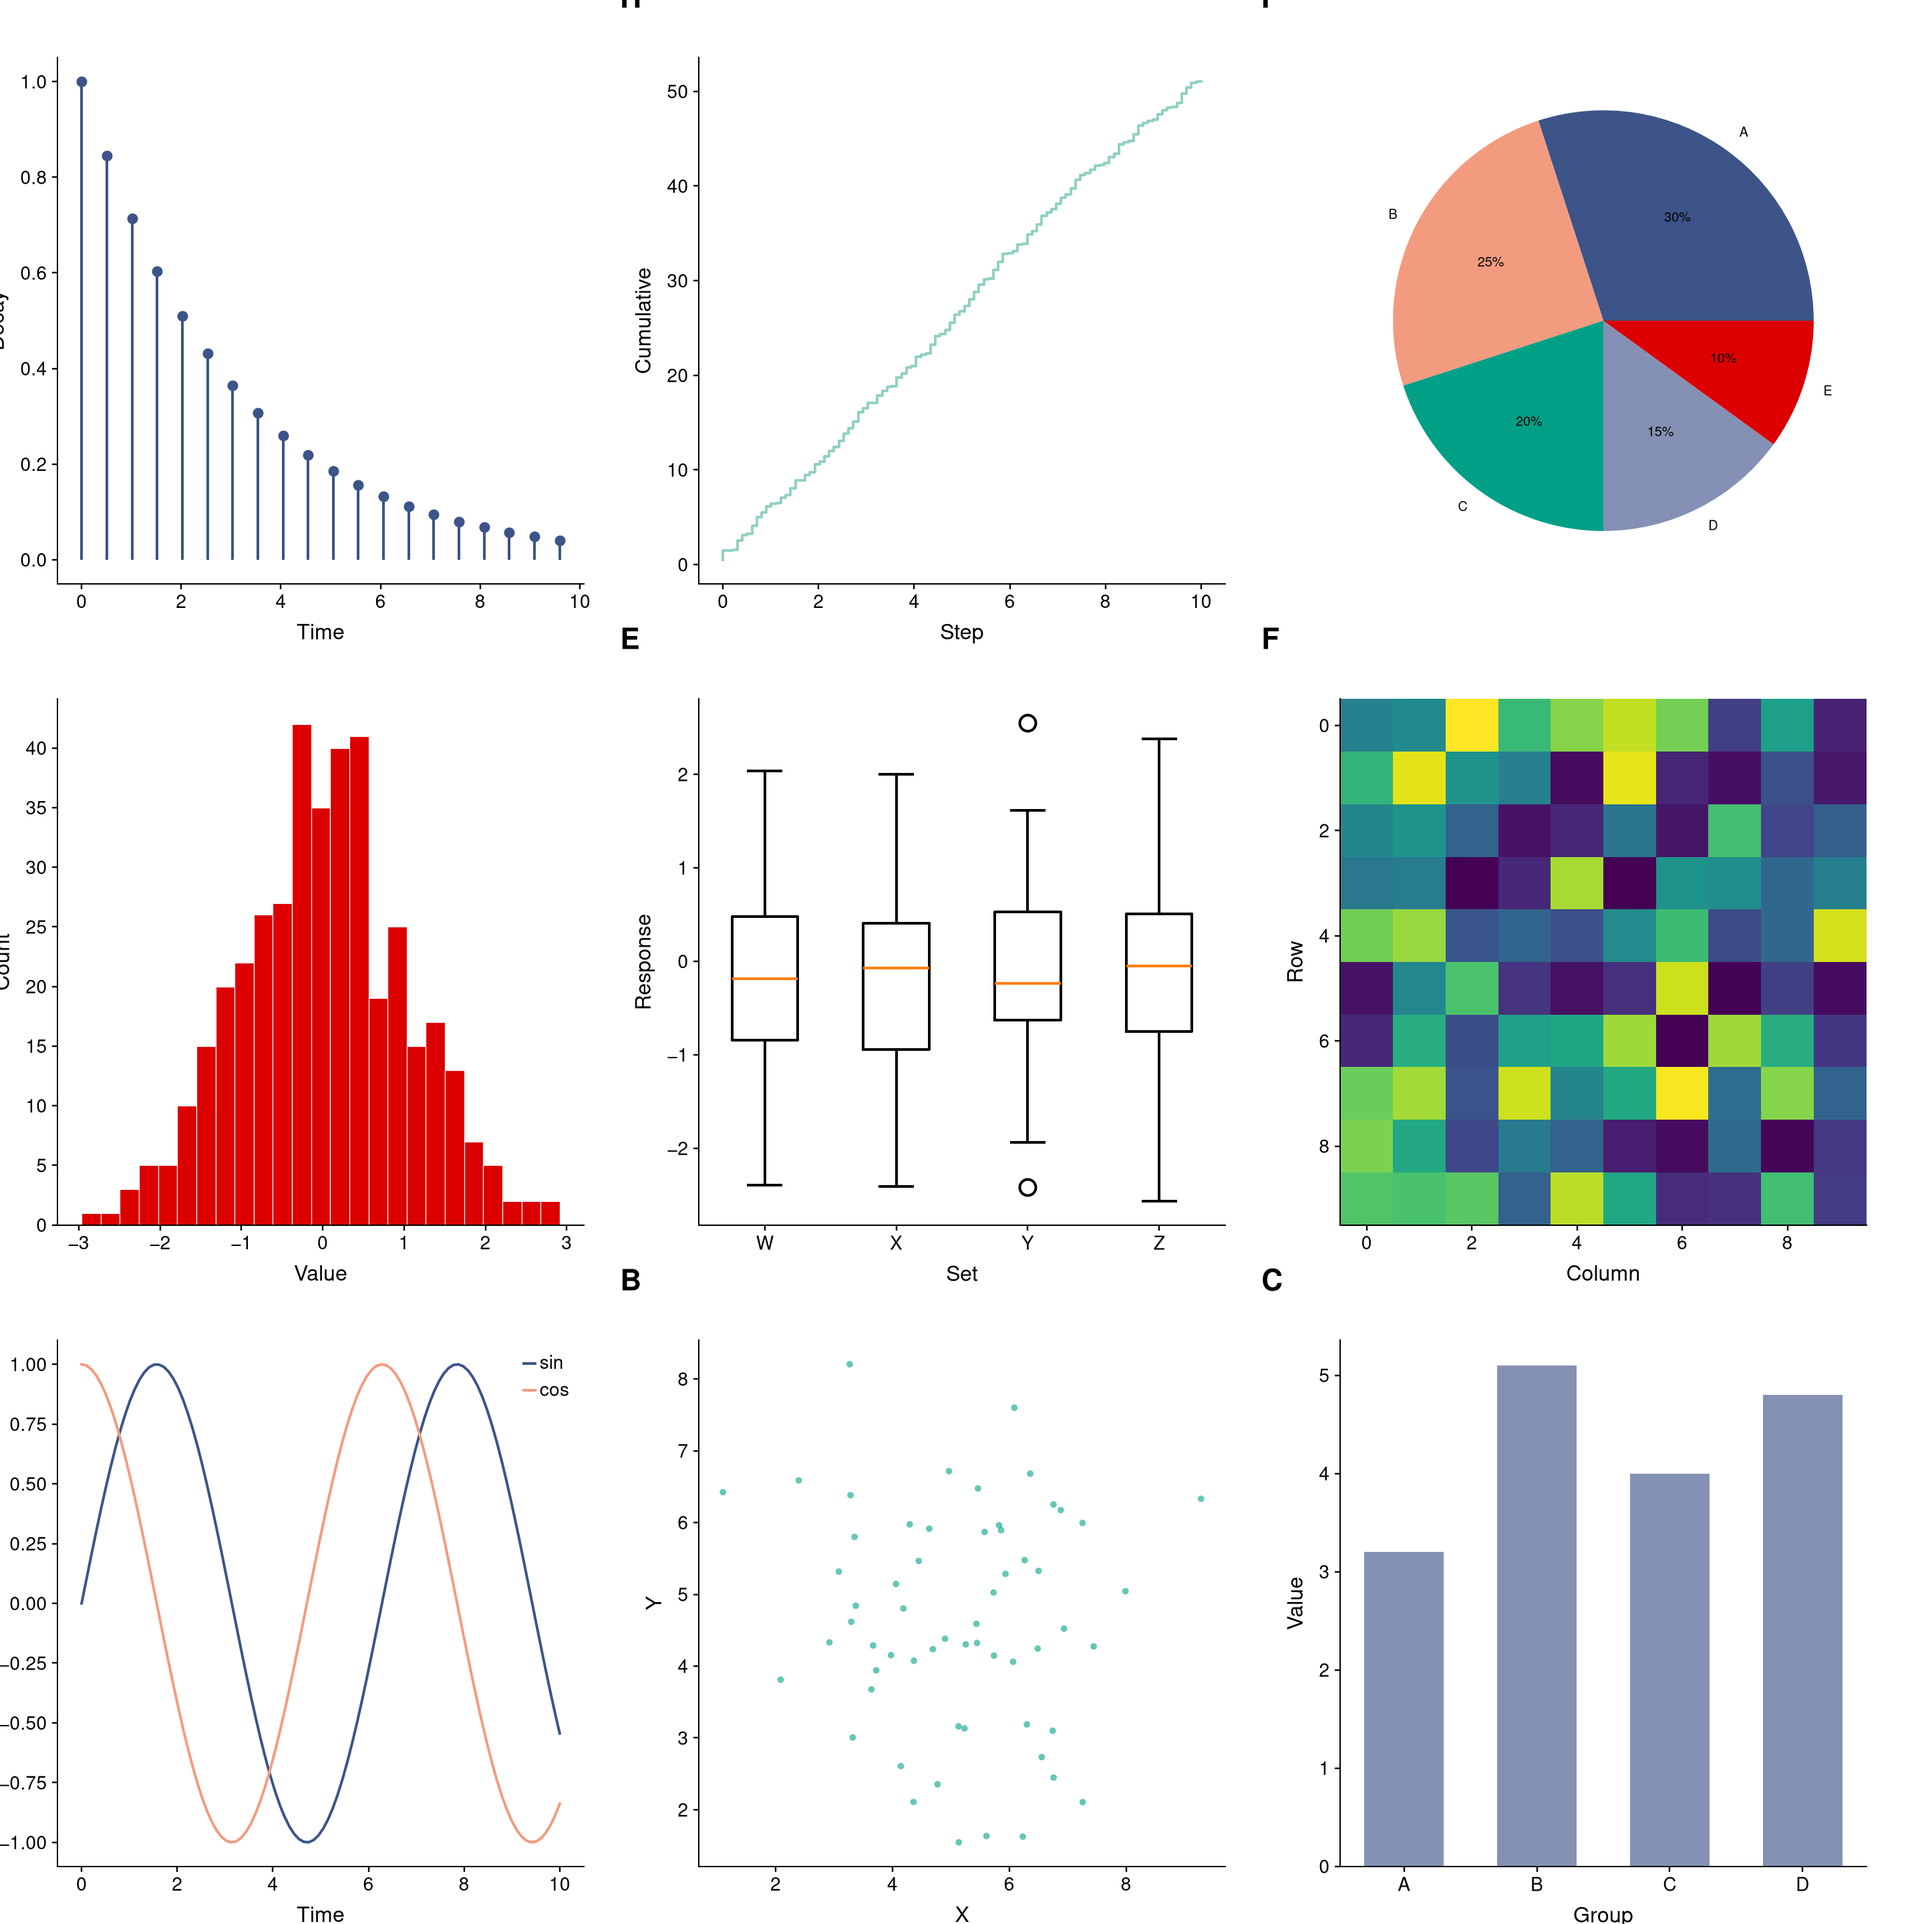
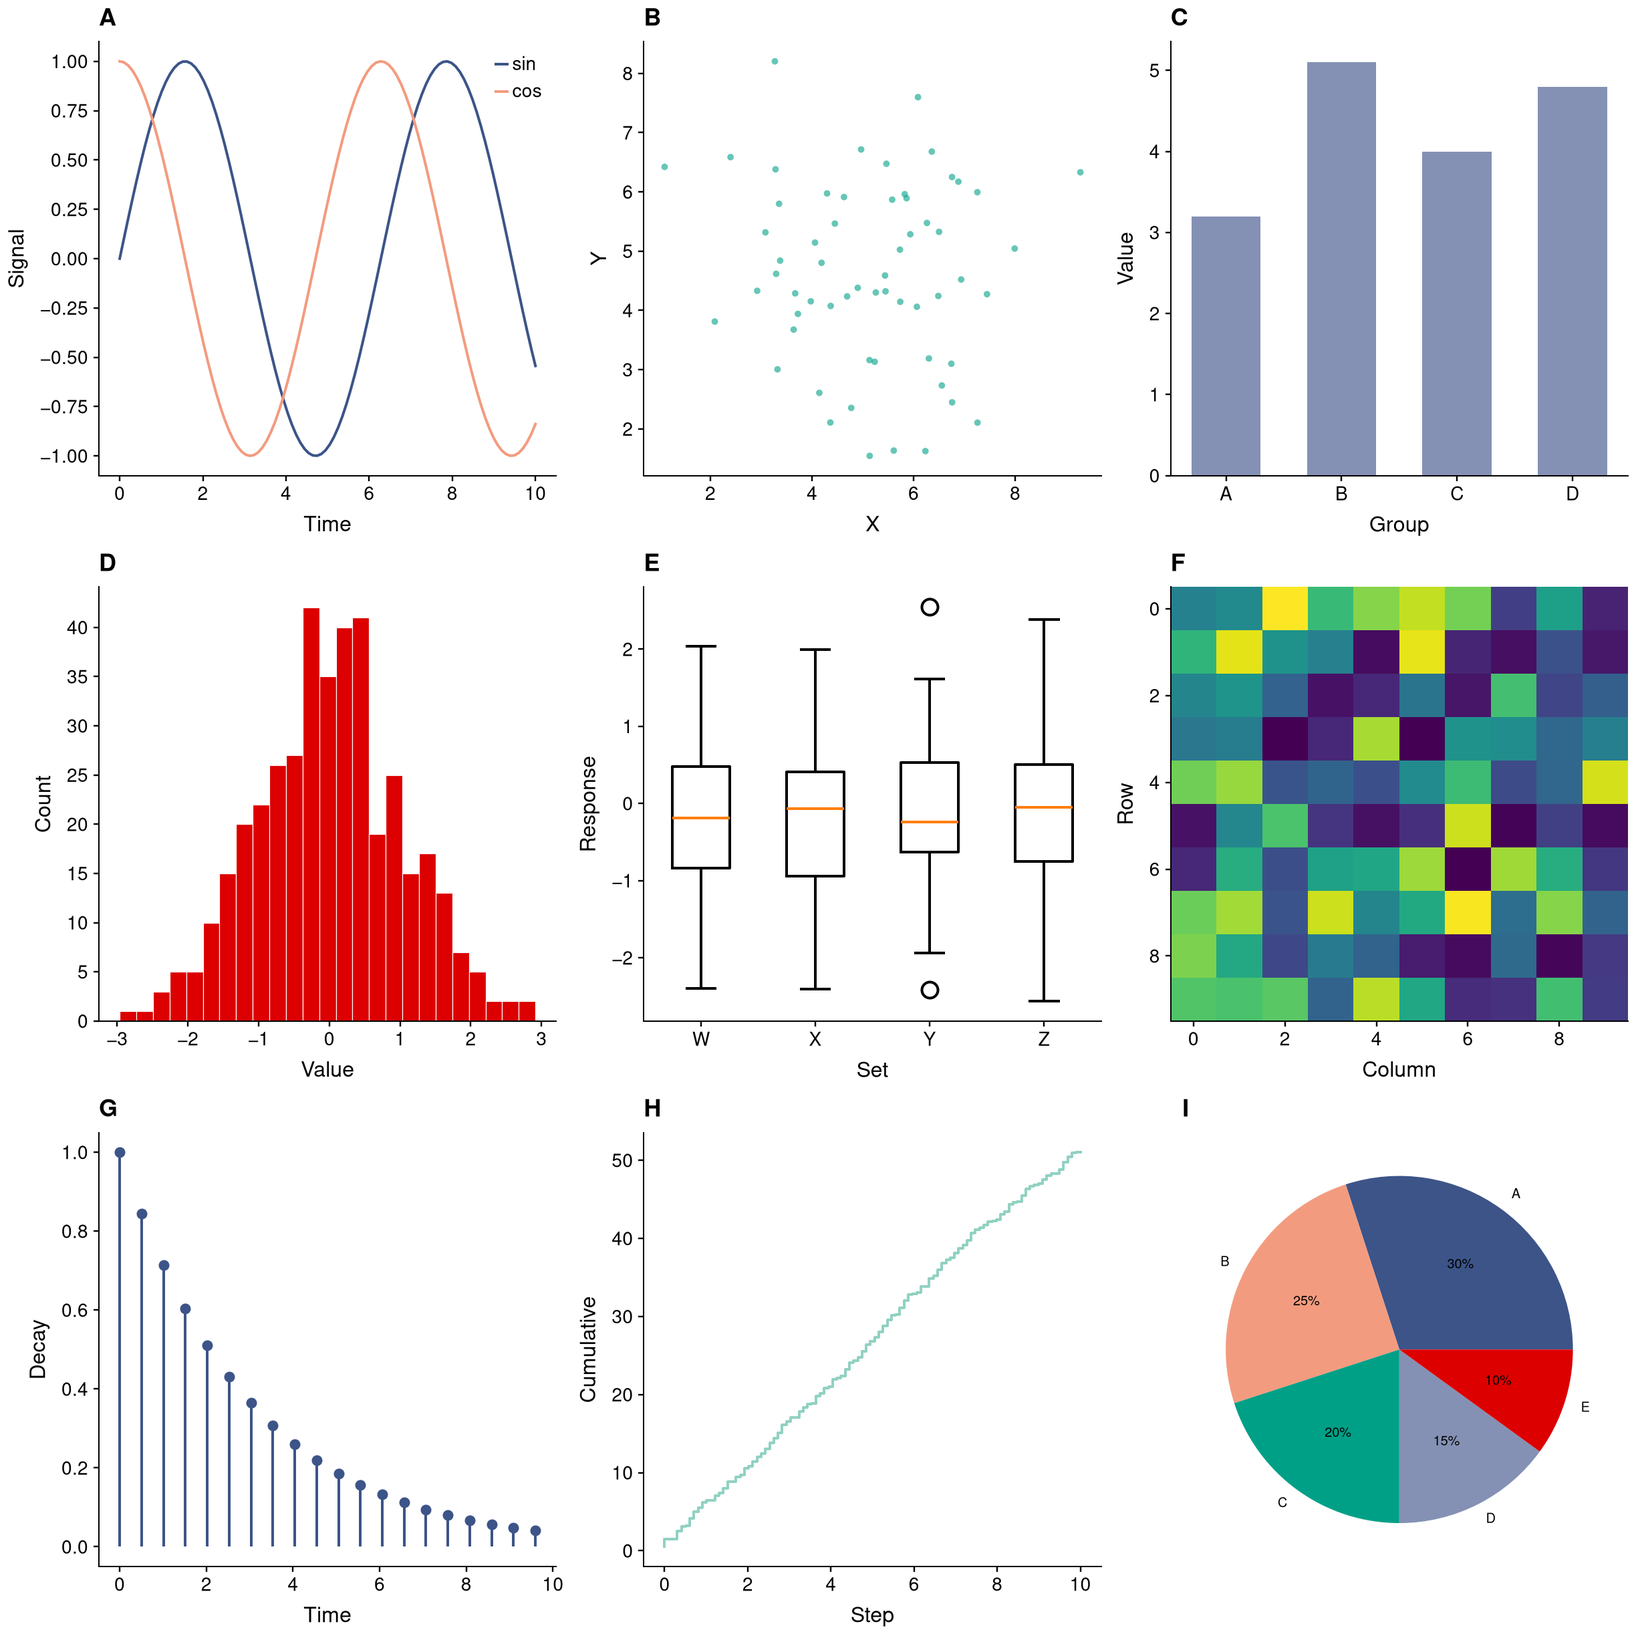
Fix layout engine: convert composition tree to subplot_mosaic with constrained_layout to prevent clipping and text overlaps

diff --git a/src/figpatch/_compose.py b/src/figpatch/_compose.py
@@ -2,6 +2,7 @@
 
 from __future__ import annotations
 
+import math
 from typing import TYPE_CHECKING, Union
 
 import matplotlib.pyplot as plt
@@ -13,6 +14,80 @@ if TYPE_CHECKING:
     from collections.abc import Callable
 
 _PanelLike = Union["Panel", "Compose"]
+
+
+def _repeat_cols(matrix: list[list[str]], factor: int) -> list[list[str]]:
+    """Repeat each column in a 2D matrix by factor."""
+    new_m = []
+    for row in matrix:
+        new_row = []
+        for cell in row:
+            new_row.extend([cell] * factor)
+        new_m.append(new_row)
+    return new_m
+
+
+def _repeat_rows(matrix: list[list[str]], factor: int) -> list[list[str]]:
+    """Repeat each row in a 2D matrix by factor."""
+    new_m = []
+    for row in matrix:
+        for _ in range(factor):
+            new_m.append(list(row))
+    return new_m
+
+
+def tree_to_mosaic(
+    node: _PanelLike,
+) -> tuple[list[list[str]], list[object], list[str]]:
+    """Convert a composition tree into a 2D mosaic grid matrix.
+
+    Returns ``(mosaic_matrix, ordered_panels, ordered_keys)`` where
+    row 0 is the top row and row N-1 is the bottom row.
+    """
+
+    from figpatch._panel import Panel
+
+    if isinstance(node, Panel) or getattr(node, "right", None) is None:
+        leaf = node.left if isinstance(node, Compose) else node
+        key = f"p_{id(leaf)}"
+        return [[key]], [leaf], [key]
+
+    children = node._collect_children()
+    sub_mats: list[list[list[str]]] = []
+    panels_list: list[object] = []
+    keys_list: list[str] = []
+
+    for child in children:
+        mat, p_list, k_list = tree_to_mosaic(child)
+        sub_mats.append(mat)
+        panels_list.extend(p_list)
+        keys_list.extend(k_list)
+
+    if node.direction == "h":
+        row_counts = [len(m) for m in sub_mats]
+        target_rows = row_counts[0]
+        for rc in row_counts[1:]:
+            target_rows = math.lcm(target_rows, rc)
+
+        expanded = [_repeat_rows(m, target_rows // len(m)) for m in sub_mats]
+        result: list[list[str]] = []
+        for r in range(target_rows):
+            row: list[str] = []
+            for m in expanded:
+                row.extend(m[r])
+            result.append(row)
+        return result, panels_list, keys_list
+    else:  # "v"
+        col_counts = [len(m[0]) for m in sub_mats]
+        target_cols = col_counts[0]
+        for cc in col_counts[1:]:
+            target_cols = math.lcm(target_cols, cc)
+
+        expanded = [_repeat_cols(m, target_cols // len(m[0])) for m in sub_mats]
+        result = []
+        for m in expanded:
+            result.extend(m)
+        return result, panels_list, keys_list
 
 
 class Compose:
@@ -43,32 +118,35 @@ class Compose:
         self,
         figsize: tuple[float, float] | None = None,
         labels: bool | str = True,
-        gap: float = 0.04,
+        gap: float | None = None,
     ) -> Figure:
         """Render the composition tree to a Matplotlib Figure.
+
+        Uses Matplotlib's native ``layout="constrained"`` to dynamically
+        prevent overlaps and ensure all labels, titles, and ticks fit.
 
         Parameters
         ----------
         figsize
             Figure size in inches. Auto-calculated when ``None``.
         labels
-            ``True`` for A, B, C... labels; a string for prefixed labels
-            (e.g. ``"S"`` produces S1, S2, ...).  ``False`` disables.
+            ``True`` for bold A, B, C... labels at top-left; a string for
+            prefixed labels (e.g. ``"S"`` produces S1, S2, ...); or ``False``.
         gap
-            Spacing between panels in figure-relative units (0–1).
+            Deprecated parameter retained for backwards compatibility.
         """
 
-        panels_areas = self._flatten(0.0, 0.0, 1.0, 1.0)
+        mosaic, panels, keys = tree_to_mosaic(self)
 
         if figsize is None:
-            figsize = estimate_figsize(panels_areas)
+            figsize = estimate_figsize(mosaic)
 
-        fig = plt.figure(figsize=figsize)
+        fig, axd = plt.subplot_mosaic(mosaic, figsize=figsize, layout="constrained")
 
         axes = []
-        for panel, (x, y, w, h) in panels_areas:
-            ax = fig.add_axes([x + gap / 2, y + gap / 2, w - gap, h - gap])
-            panel(ax)
+        for panel_obj, key in zip(panels, keys, strict=True):
+            ax = axd[key]
+            panel_obj(ax)  # type: ignore[operator]
             axes.append(ax)
 
         add_labels(axes, labels)
@@ -103,7 +181,7 @@ class Compose:
         w: float,
         h: float,
     ) -> list[tuple[object, tuple[float, float, float, float]]]:
-        """Recursively assign rectangular areas to every leaf panel."""
+        """Recursively assign rectangular areas to every leaf panel (document order)."""
 
         if self.right is None:
             return [(self.left, (x, y, w, h))]
@@ -144,7 +222,7 @@ def compose(
     direction: str = "h",
     figsize: tuple[float, float] | None = None,
     labels: bool | str = True,
-    gap: float = 0.04,
+    gap: float | None = None,
 ) -> Figure:
     """Compose existing Matplotlib figures or axes into a single figure.
 
@@ -159,7 +237,7 @@ def compose(
     labels
         ``True`` for A, B, C... labels; a string prefix; or ``False``.
     gap
-        Spacing between panels in figure-relative units.
+        Deprecated parameter retained for backwards compatibility.
 
     Returns
     -------

diff --git a/src/figpatch/_layout.py b/src/figpatch/_layout.py
@@ -3,7 +3,7 @@
 from __future__ import annotations
 
 import string
-from typing import TYPE_CHECKING
+from typing import TYPE_CHECKING, Any
 
 if TYPE_CHECKING:
     from collections.abc import Sequence
@@ -11,21 +11,31 @@ if TYPE_CHECKING:
 
 
 def estimate_figsize(
-    panels_areas: list[tuple[object, tuple[float, float, float, float]]],
+    layout_spec: Any,
     panel_w: float = 4.0,
     panel_h: float = 3.0,
 ) -> tuple[float, float]:
-    """Estimate figure size (inches) from a flattened list of (panel, area) pairs."""
+    """Estimate figure size (inches) from a mosaic matrix or panel areas."""
 
-    x_starts = sorted({round(area[0], 6) for _, area in panels_areas})
-    y_starts = sorted({round(area[1], 6) for _, area in panels_areas})
-    ncols = len(x_starts)
-    nrows = len(y_starts)
-    return (max(ncols * panel_w, 4.0), max(nrows * panel_h, 3.0))
+    # If passed a 2D mosaic matrix (list of lists of strings)
+    if isinstance(layout_spec, list) and layout_spec and isinstance(layout_spec[0], list):
+        nrows = len(layout_spec)
+        max_cols = max(len(set(row)) for row in layout_spec)
+        return (max(max_cols * panel_w, 4.0), max(nrows * panel_h, 3.0))
+
+    # Backwards compatibility: passed a list of (panel, area) tuples
+    if isinstance(layout_spec, list) and layout_spec and isinstance(layout_spec[0], tuple):
+        x_starts = sorted({round(area[0], 6) for _, area in layout_spec})
+        y_starts = sorted({round(area[1], 6) for _, area in layout_spec})
+        ncols = max(len(x_starts), 1)
+        nrows = max(len(y_starts), 1)
+        return (max(ncols * panel_w, 4.0), max(nrows * panel_h, 3.0))
+
+    return (8.0, 6.0)
 
 
 def add_labels(axes: "Sequence[Axes]", labels: bool | str = True) -> None:
-    """Add panel labels (A, B, C...) to axes in reading order."""
+    """Add bold panel labels (A, B, C...) at the top-left of each axes."""
 
     if not labels:
         return
@@ -42,11 +52,4 @@ def add_labels(axes: "Sequence[Axes]", labels: bool | str = True) -> None:
             label = string.ascii_uppercase[i] if i < 26 else str(i + 1)
         else:
             label = f"{prefix}{i + 1}"
-        ax.text(
-            -0.15, 1.08, label,
-            transform=ax.transAxes,
-            fontsize=11,
-            fontweight="bold",
-            va="bottom",
-            ha="left",
-        )
+        ax.set_title(label, loc="left", fontsize=9, fontweight="bold")

diff --git a/src/figpatch/_panel.py b/src/figpatch/_panel.py
@@ -51,15 +51,14 @@ class Panel:
         self,
         figsize: tuple[float, float] | None = None,
         labels: bool | str = False,
-        gap: float = 0.04,
+        gap: float | None = None,
     ) -> "Figure":
         """Render this single panel as a Matplotlib Figure."""
 
         import matplotlib.pyplot as plt
         from figpatch._layout import add_labels
 
-        fig = plt.figure(figsize=figsize or (6.0, 4.0))
-        ax = fig.add_axes([gap / 2, gap / 2, 1 - gap, 1 - gap])
+        fig, ax = plt.subplots(figsize=figsize or (6.0, 4.0), layout="constrained")
         self._func(ax)
         add_labels([ax], labels)
         return fig

diff --git a/tests/test_compose.py b/tests/test_compose.py
@@ -122,11 +122,7 @@ def test_render_returns_figure() -> None:
 
 def _get_labels(axes):
     """Extract panel label text from axes."""
-    labels = []
-    for ax in axes:
-        texts = [t.get_text() for t in ax.texts if t.get_text().strip()]
-        labels.append(texts[-1] if texts else "")
-    return labels
+    return [ax.get_title(loc="left") for ax in axes]
 
 
 def test_render_labels_default() -> None:

diff --git a/tests/test_layout.py b/tests/test_layout.py
@@ -48,11 +48,7 @@ def test_estimate_figsize_2x2_grid() -> None:
 
 def _get_labels(axes):
     """Extract panel label text from axes."""
-    labels = []
-    for ax in axes:
-        texts = [t.get_text() for t in ax.texts if t.get_text().strip()]
-        labels.append(texts[-1] if texts else "")
-    return labels
+    return [ax.get_title(loc="left") for ax in axes]
 
 
 def test_add_labels_letters() -> None:

diff --git a/examples/figure_compose.py b/examples/figure_compose.py
@@ -41,7 +41,7 @@ with style():
     ax3.set_title("Bar")
     setup_ax(ax3)
 
-    composed = fp.compose(fig1, fig2, fig3, direction="h", figsize=(11, 3.5), gap=0.06)
+    composed = fp.compose(fig1, fig2, fig3, direction="h", figsize=(9.0, 3.0))
     composed.savefig(OUTPUT / "figure_compose.pdf")
     composed.savefig(OUTPUT / "figure_compose.png", dpi=288, transparent=True)
     plt.close(fig1)

diff --git a/examples/grid_1x6.py b/examples/grid_1x6.py
@@ -73,7 +73,7 @@ def panel_f(ax):
 
 
 with style():
-    fig = (panel_a | panel_b | panel_c | panel_d | panel_e | panel_f).render(figsize=(14, 3), gap=0.06)
+    fig = (panel_a | panel_b | panel_c | panel_d | panel_e | panel_f).render(figsize=(13.0, 2.5))
     fig.savefig(OUTPUT / "grid_1x6.pdf")
     fig.savefig(OUTPUT / "grid_1x6.png", dpi=288, transparent=True)
     plt.close(fig)

diff --git a/examples/irregular_3_2_3.py b/examples/irregular_3_2_3.py
@@ -99,7 +99,7 @@ with style():
         / (panel_d | panel_e)
         / (panel_f | panel_g | panel_h)
     )
-    fig = fig.render(figsize=(10, 10), gap=0.06)
+    fig = fig.render(figsize=(8.5, 7.5))
     fig.savefig(OUTPUT / "irregular_3_2_3.pdf")
     fig.savefig(OUTPUT / "irregular_3_2_3.png", dpi=288, transparent=True)
     plt.close(fig)

diff --git a/examples/grid_2x3.py b/examples/grid_2x3.py
@@ -81,7 +81,7 @@ def panel_f(ax):
 
 with style():
     fig = (panel_a | panel_b | panel_c) / (panel_d | panel_e | panel_f)
-    fig = fig.render(figsize=(10, 6), gap=0.06)
+    fig = fig.render(figsize=(8.0, 5.0))
     fig.savefig(OUTPUT / "grid_2x3.pdf")
     fig.savefig(OUTPUT / "grid_2x3.png", dpi=288, transparent=True)
     plt.close(fig)

diff --git a/examples/grid_3x3.py b/examples/grid_3x3.py
@@ -107,7 +107,7 @@ with style():
         / (panel_d | panel_e | panel_f)
         / (panel_g | panel_h | panel_i)
     )
-    fig = fig.render(figsize=(10, 10), gap=0.06)
+    fig = fig.render(figsize=(8.5, 8.5))
     fig.savefig(OUTPUT / "grid_3x3.pdf")
     fig.savefig(OUTPUT / "grid_3x3.png", dpi=288, transparent=True)
     plt.close(fig)

diff --git a/examples/complex_layout.py b/examples/complex_layout.py
@@ -51,7 +51,7 @@ def panel_c(ax):
 
 
 with style():
-    fig = ((panel_a | panel_b) / panel_c).render(figsize=(7, 6), gap=0.06)
+    fig = ((panel_a | panel_b) / panel_c).render(figsize=(6.5, 5.0))
     fig.savefig(OUTPUT / "complex_layout.pdf")
     fig.savefig(OUTPUT / "complex_layout.png", dpi=288, transparent=True)
     plt.close(fig)

diff --git a/examples/basic_compose.py b/examples/basic_compose.py
@@ -39,7 +39,7 @@ def panel_b(ax):
 
 
 with style():
-    fig = (panel_a | panel_b).render(figsize=(7, 3.5), gap=0.06)
+    fig = (panel_a | panel_b).render(figsize=(7.2, 3.2))
     fig.savefig(OUTPUT / "basic_compose.pdf")
     fig.savefig(OUTPUT / "basic_compose.png", dpi=288, transparent=True)
     plt.close(fig)
